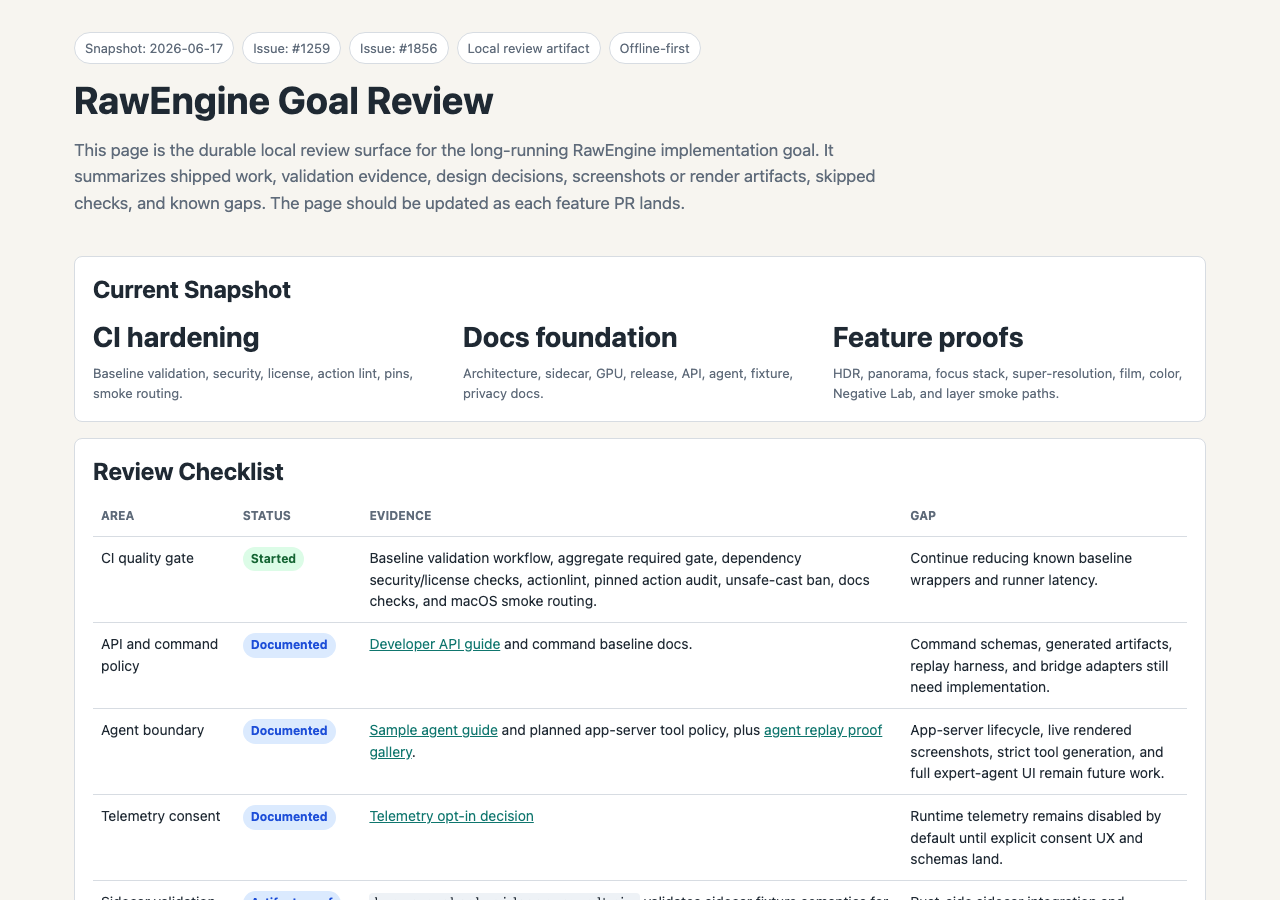
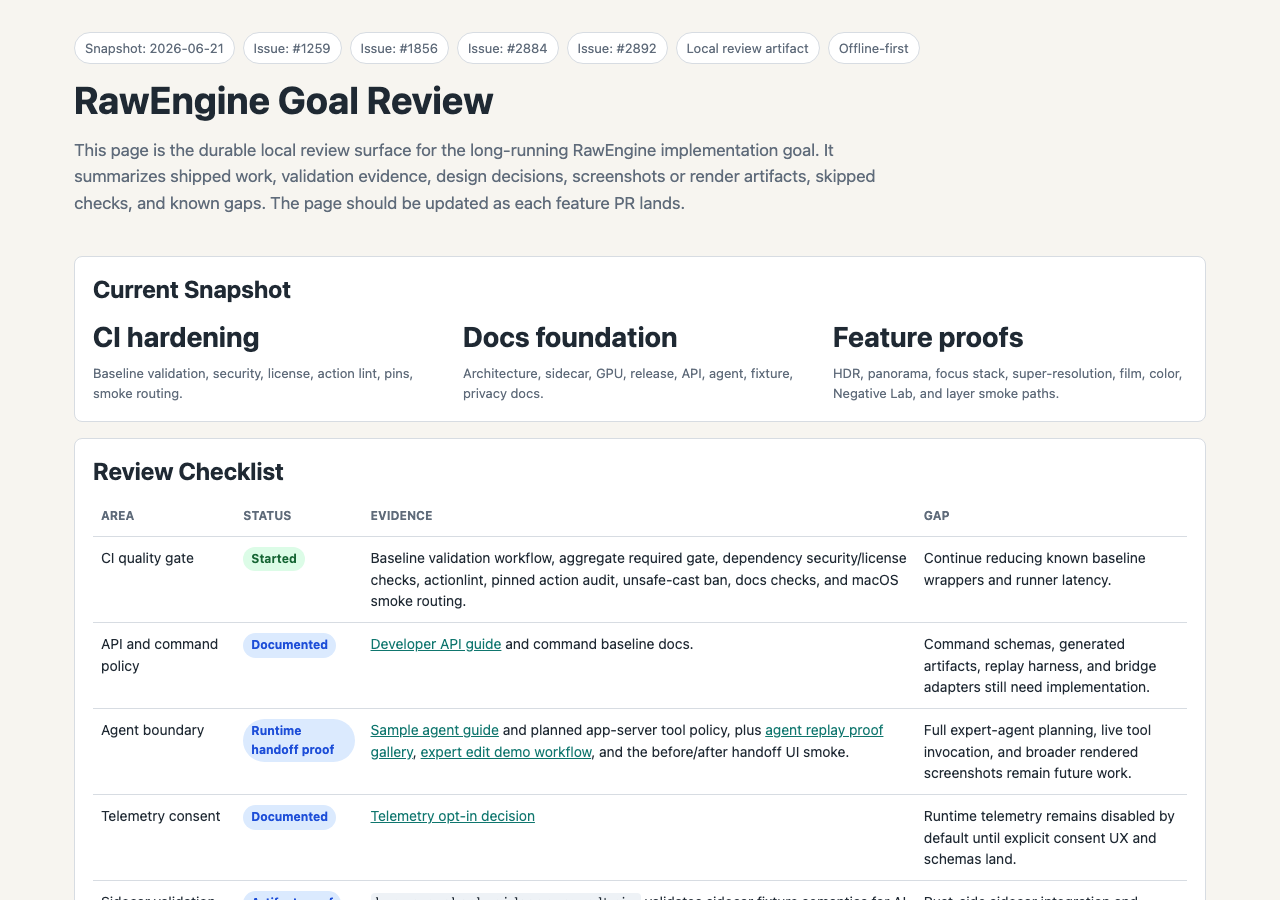
docs(review): refresh goal evidence page (#2915)

diff --git a/docs/validation/goal-review-2026-06-11.html b/docs/validation/goal-review-2026-06-11.html
@@ -236,9 +236,11 @@
     <main class="page">
       <header>
         <div class="meta">
-          <span class="pill">Snapshot: 2026-06-17</span>
+          <span class="pill">Snapshot: 2026-06-21</span>
           <span class="pill">Issue: #1259</span>
           <span class="pill">Issue: #1856</span>
+          <span class="pill">Issue: #2884</span>
+          <span class="pill">Issue: #2892</span>
           <span class="pill">Local review artifact</span>
           <span class="pill">Offline-first</span>
         </div>
@@ -301,14 +303,15 @@
             </tr>
             <tr>
               <td>Agent boundary</td>
-              <td><span class="status partial">Documented</span></td>
+              <td><span class="status partial">Runtime handoff proof</span></td>
               <td>
                 <a href="../agent/sample-agent-guide-2026-06-11.md">Sample agent guide</a> and planned app-server tool
-                policy, plus <a href="agent-replay-proof-gallery-2026-06-16.html">agent replay proof gallery</a>.
+                policy, plus <a href="agent-replay-proof-gallery-2026-06-16.html">agent replay proof gallery</a>,
+                <a href="agent-expert-edit-demo-workflow-2026-06-21.html">expert edit demo workflow</a>, and the
+                before/after handoff UI smoke.
               </td>
               <td>
-                App-server lifecycle, live rendered screenshots, strict tool generation, and full expert-agent UI remain
-                future work.
+                Full expert-agent planning, live tool invocation, and broader rendered screenshots remain future work.
               </td>
             </tr>
             <tr>
@@ -485,6 +488,18 @@
               <td>Capture One-class color parity, skin-tone runtime, profile/input transform proof.</td>
             </tr>
             <tr>
+              <td>Expert agent handoff</td>
+              <td><span class="status partial">Runtime/UI proof</span></td>
+              <td>
+                <code>bun run check:agent-chat-ui</code>, <code>bun run check:agent-expert-edit-demo-workflow</code>,
+                <code>bun run check:agent-app-server-raw-edit-proof</code>, and
+                <a href="agent-expert-edit-demo-workflow-2026-06-21.html">expert edit demo workflow</a> validate a
+                Zod-backed before/after handoff with approved dry-run, proof gallery link, audit artifact, and rollback
+                target.
+              </td>
+              <td>Live app-server agent planning, real user prompt flow, and richer before/after screenshots.</td>
+            </tr>
+            <tr>
               <td>Film and Negative Lab</td>
               <td><span class="status partial">UI/fixture proof</span></td>
               <td>
@@ -533,6 +548,15 @@
             <p>
               Bounded Playwright screenshot generated by <code>bun run check:goal-review-screenshot:update</code> and
               validated by <code>bun run check:goal-review-screenshot</code>.
+            </p>
+          </div>
+          <div class="artifact">
+            <h3>Expert Agent Handoff Proof</h3>
+            <p>
+              <a href="agent-expert-edit-demo-workflow-2026-06-21.html">Expert edit demo workflow</a> and
+              <a href="agent-replay-proof-gallery-2026-06-16.html">agent replay proof gallery</a> document the
+              before/after artifact IDs, accepted app-server dry-run, virtual-copy apply, audit link, and rollback
+              target used by the visible agent handoff.
             </p>
           </div>
         </div>
@@ -759,6 +783,18 @@
               </td>
             </tr>
             <tr>
+              <td>Expert agent handoff</td>
+              <td>
+                <code>bun run check:agent-chat-ui</code><br />
+                <code>bun run check:agent-expert-edit-demo-workflow</code><br />
+                <code>bun run check:agent-app-server-raw-edit-proof</code>
+              </td>
+              <td>
+                Browser/UI smoke and app-server replay proof for the before/after review handoff, approved dry-run,
+                proof gallery link, audit artifact, and rollback target.
+              </td>
+            </tr>
+            <tr>
               <td>Computational merge runtime status</td>
               <td><code>bun run check:computational-merge-runtime-status</code></td>
               <td>
@@ -789,7 +825,7 @@
           <li>Feature UI screenshots for new app-visible controls.</li>
           <li>Before/after renders for editing features.</li>
           <li>Golden image outputs and perceptual comparison reports.</li>
-          <li>OpenAI app-server dry-run/apply/audit screenshots or rendered logs.</li>
+          <li>Live OpenAI app-server agent prompt walkthrough screenshots beyond the committed replay demo.</li>
           <li>Negative Lab real-scan workflow screenshots and QC overlays.</li>
           <li>
             HDR private ARW bracket files for <code>private-fixtures/hdr/bracket-alignment-v1/</code>; the proof runner

diff --git a/tests/integration/checks/check-goal-review-page.ts b/tests/integration/checks/check-goal-review-page.ts
@@ -76,6 +76,8 @@ const requirements = z.array(requirementSchema).parse([
       'Panorama private RAW asset prep',
       'manifest-only public schema',
       'Real RAW before/after proof',
+      'Expert agent handoff',
+      'agent-expert-edit-demo-workflow-2026-06-21.html',
       'negative-lab-qc-contact-sheet-proof-2026-06-16.svg',
       'Missing Artifacts',
     ],